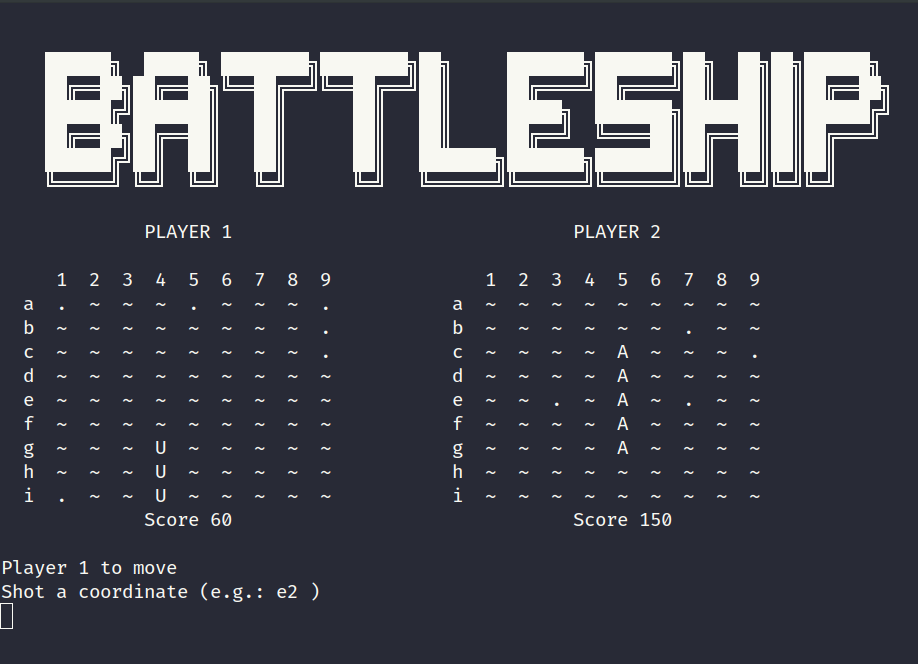
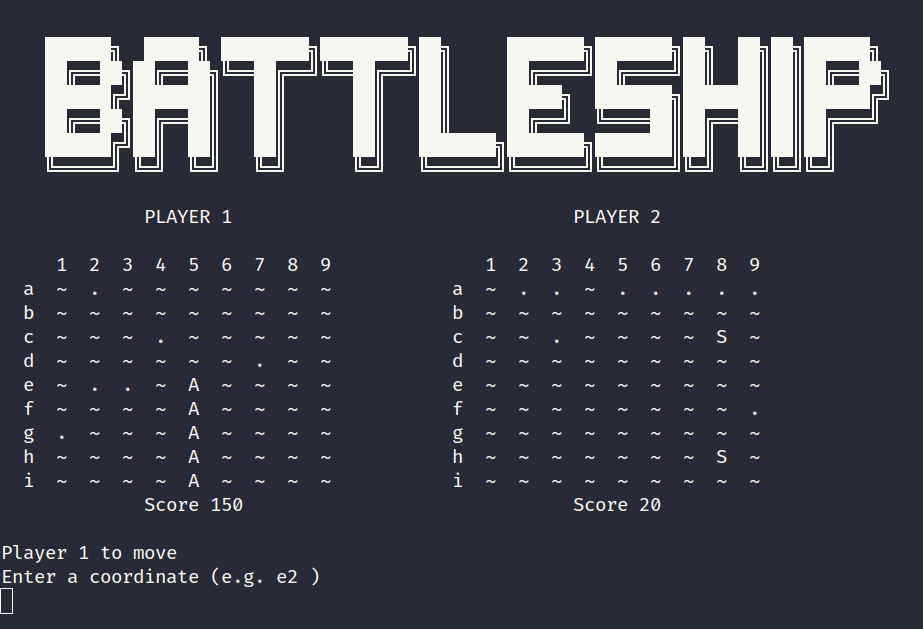
chore: fix input typo

diff --git a/game.cpp b/game.cpp
@@ -224,7 +224,7 @@ Coordinate *Game::read_shots_coordinates()
             {
                 std::cout << "Player " << this->player_to_move + 1 << " to move " << std::endl;
             }
-            std::cout << "Shot a coordinate (e.g.: e2 )" << '\n';
+            std::cout << "Enter a coordinate (e.g. e2 )" << '\n';
 
             std::string shot_input;
             getline(std::cin, shot_input);
